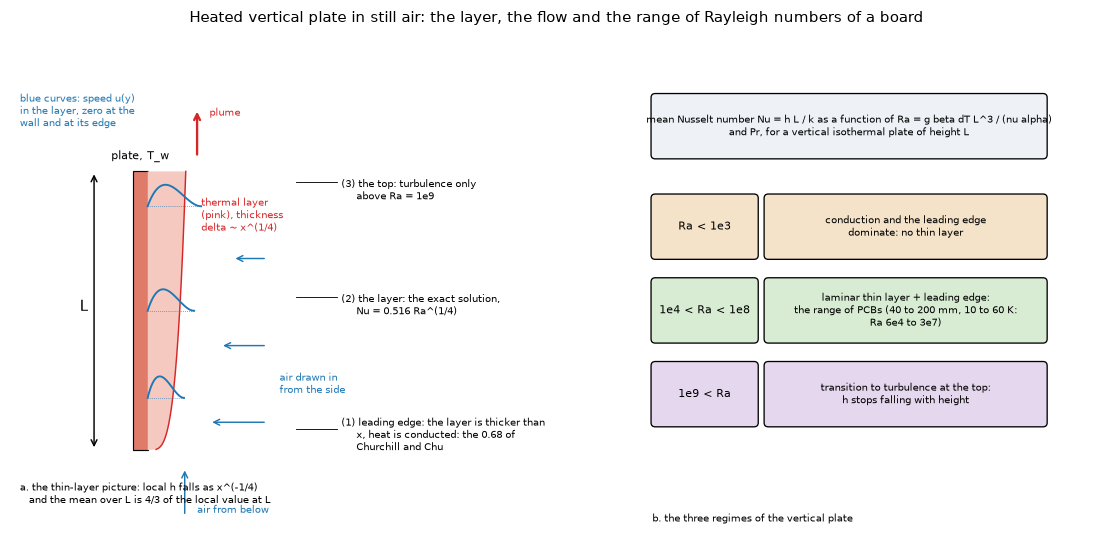
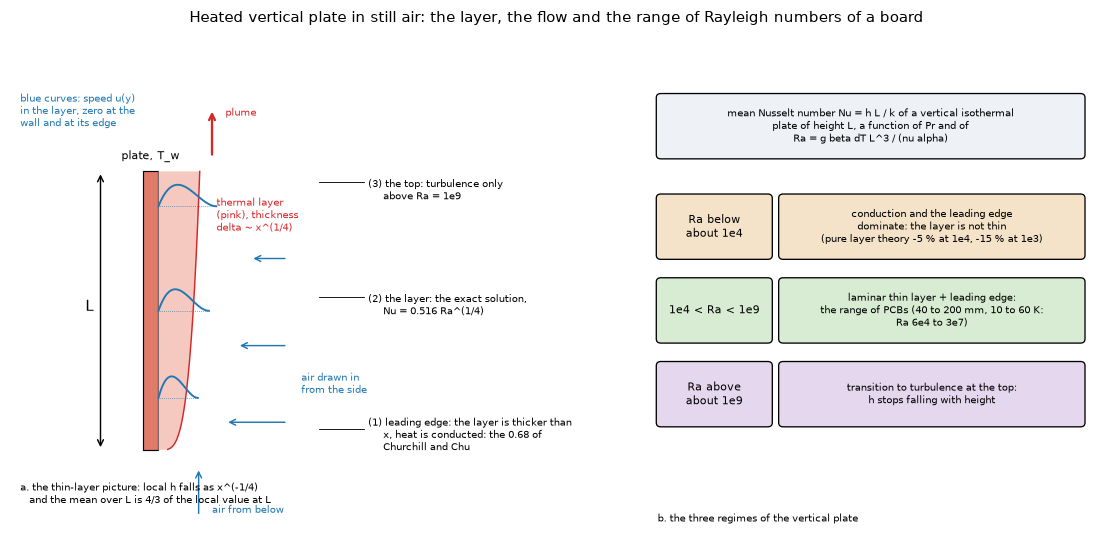
Review research/plate-h-level: 2D uncertainty, fin-channel offset
The finer 2D grid moves Nu by 0.01 to 0.11 %, so the 0.96 balance at
Ra 1e7 is the far-boundary flux, not a 3 to 4 % error of Nu. The -0.1 %
of fin-channel is taken apart in study_finned_block.py (7 % offset to
the laminar form, not 14 %). Inverted percentages corrected, the 0.68
described as a fitted constant (the 2D plate gives 0.35 to 0.54),
Figures 1 and 2 redrawn, review chapter and registers updated.

Claude-Session: https://claude.ai/code/session_01NsfnySABtTnfYfYFzLoyJj

diff --git a/research/plate-h-level/scripts/study_plate2d.py b/research/plate-h-level/scripts/study_plate2d.py
@@ -8,7 +8,9 @@
          the plate), a coarser grid (60 x 50) and a larger domain (6 L wide, 3 L below, 6 L above), prints the mean Nusselt number, the number of pseudo-time steps, the energy
          balance (heat out of the domain / heat out of the plate) and the ratios to each level. Results go to out/plate2d.json. It takes some 20 to 40 minutes: run it in the background.
 
-Usage: .venv/bin/python research/plate-h-level/scripts/study_plate2d.py [quick]     ("quick": Ra 1e4 and 1e5, the coarse grid only)
+Usage: .venv/bin/python research/plate-h-level/scripts/study_plate2d.py [quick|review]     ("quick": Ra 1e4 and 1e5, the coarse grid only; "review": the checks added by the
+       review, the base grid at Ra 1e4 to 1e7 marched on for as many steps again after the convergence flag, and a finer grid (135 x 120, first cell 6e-4) at 1e5 to 1e7,
+       with the local number against the similarity solution; about 30 minutes, results in out/plate2d_review.json)
 """
 
 import json
@@ -26,6 +28,7 @@ OUT = os.path.join(os.path.dirname(HERE), "out")
 PR = 0.71
 COARSE = dict(nx=60, ny_plate=50, ny_below=20, ny_above=30)
 BASE = dict(nx=90, ny_plate=80, ny_below=30, ny_above=45, dx0=1e-3, dy_end=1.5e-3)
+FINE = dict(nx=135, ny_plate=120, ny_below=45, ny_above=68, dx0=6e-4, dy_end=1e-3)
 WIDE = dict(nx=90, ny_plate=80, ny_below=30, ny_above=45, dx0=1e-3, dy_end=1.5e-3, width=6.0, below=3.0, above=6.0)
 
 
@@ -49,12 +52,48 @@ def one(ra, cfg, name):
     return out
 
 
+def one_review(ra, cfg, name):
+    """!
+    @brief The review's check of one configuration: run to the convergence flag, then march as many steps again (at least 20000) and report the drift of Nu and of the
+           energy balance, and the local Nusselt number at y/L 0.25, 0.5, 0.75 over the similarity value 0.3868 Ra^(1/4) (y/L)^(-1/4).
+    @param ra Rayleigh number.
+    @param cfg Keyword arguments of Plate2D.
+    @param name Label of the configuration.
+    @return dict with the results.
+    """
+    import numpy as np
+    t = time.time()
+    m = p2.Plate2D(ra, PR, **cfg)
+    dt = min(3.0 * m.x[1] ** 2, 0.35 * min(m.x[1], m.y[m.j0 + 1] - m.y[m.j0]) / (0.3 * (PR * ra) ** 0.5))
+    r = m.run(dt=dt, max_steps=600000, check=5000, tol=2e-5)
+    nu1, bal1 = r["nu"], m.energy_balance()
+    for _ in range(max(r["steps"], 20000)):
+        m.step()
+    nu2, bal2 = m.nusselt_mean(), m.energy_balance()
+    y, nl = m.nusselt_local()
+    loc = {yy: float(np.interp(yy, y, nl) / (0.3868 * ra ** 0.25 * yy ** -0.25)) for yy in (0.25, 0.5, 0.75)}
+    out = {"ra": ra, "config": name, "nu": nu1, "balance": bal1, "nu_after": nu2, "balance_after": bal2, "drift": nu2 / nu1 - 1.0, "local_over_similarity": loc,
+           "seconds": time.time() - t}
+    print(f"Ra {ra:.0e} {name:6s} Nu {nu1:.4f} balance {bal1:.3f} | marched on: Nu {nu2:.4f} (drift {100 * out['drift']:+.3f} %) balance {bal2:.3f} | local/similarity "
+          + " ".join(f"{k}: {v:.4f}" for k, v in loc.items()) + f"  ({out['seconds']:.0f} s)", flush=True)
+    return out
+
+
 def main():
     """!
     @brief Run the cases and write out/plate2d.json.
     @return None.
     """
     quick = len(sys.argv) > 1 and sys.argv[1] == "quick"
+    if len(sys.argv) > 1 and sys.argv[1] == "review":
+        import multiprocessing as mp
+        cases = [(1e4, BASE, "base"), (1e5, BASE, "base"), (1e6, BASE, "base"), (1e7, BASE, "base"), (1e5, FINE, "fine"), (1e6, FINE, "fine"), (1e7, FINE, "fine")]
+        with mp.Pool(4) as pool:
+            rows = pool.starmap(one_review, cases)
+        os.makedirs(OUT, exist_ok=True)
+        with open(os.path.join(OUT, "plate2d_review.json"), "w") as f:
+            json.dump(rows, f, indent=1)
+        return
     rows = []
     cases = [(1e4, "coarse", COARSE), (1e5, "coarse", COARSE)] if quick else [
         (1e4, "coarse", COARSE), (1e4, "base", BASE), (1e4, "wide", WIDE),

diff --git a/research/plate-h-level/scripts/study_finned_block.py b/research/plate-h-level/scripts/study_finned_block.py
@@ -14,7 +14,7 @@
          * "channel 0.59": the composite of Bar-Cohen and Rohsenow as written in the Waterloo review (plate limit 0.59);
          * "channel exact": the same composite with the plate limit replaced by the exact boundary-layer coefficient 0.5157 (the fully developed limit 24 is unchanged).
 
-         Results go to out/finned_block.json.
+         Results go to out/finned_block.json; the review added the decomposition of the -0.1 % of `fin-channel` at 6.5 mm (out/fin_channel_decomposition.json).
 
 Usage: .venv/bin/python research/plate-h-level/scripts/study_finned_block.py   (about 1 minute)
 """
@@ -84,6 +84,29 @@ def row(gap_mm, length=0.040, power=3.0):
     return out
 
 
+def fin_channel_decomposition(gap_mm=6.5, length=0.040, power=3.0):
+    """!
+    @brief The -0.1 % of `research/fin-channel` at a gap taken apart (added by the review): board faces at the laminar form, as in `fin-channel`, and on the finned face
+           (a) the laminar form (the baseline), (b) the plate 0.59 Ra_b^(1/4) with no channel, (c) the composite with its 0.59 (the run of `fin-channel`), (d) the `phi` form on
+           the laminar coefficient (the channel effect alone).
+    @param gap_mm Gap between the fins in mm.
+    @param length Channel length in m.
+    @param power Part power in W.
+    @return dict with the four rises in K.
+    """
+    p = case(15.0, 1.5, gap_mm + 1.5, power)
+    base = solve_uniform(p, length, "laminar")
+    out = {"gap_mm": gap_mm, "laminar": base["rise"]}
+    for key, fun in (("plate_059_fins", lambda ra: 0.59 * ra ** 0.25), ("channel_059_fins", ch.nu_bcr)):
+        p = case(15.0, 1.5, gap_mm + 1.5, power)
+        p.board.h_top = p.board.h_bottom = base["h"]
+        out[key] = pp.solve_channel(p, length, "fvm", 1.0, nu_fun=fun)["rise"]
+    p = case(15.0, 1.5, gap_mm + 1.5, power)
+    p.board.h_top = p.board.h_bottom = base["h"]
+    out["phi_laminar"] = pp.solve_phi(p, length, 1.0)["rise"]
+    return out
+
+
 def main():
     """!
     @brief Run the gaps, print the table and write out/finned_block.json.
@@ -100,9 +123,18 @@ def main():
     for r in rows:
         base = r["uniform_laminar"]["rise"]
         print(f"gap {r['gap_mm']:.1f}: " + "  ".join(f"{k}: {100 * (r[k]['rise'] / base - 1):+.1f}" for k in ("uniform_general", "uniform_bl", "uniform_mcadams", "channel_059", "channel_exact")))
+    # The configuration of research/fin-channel (board faces at the laminar form) taken apart at 6.5 mm
+    d = fin_channel_decomposition()
+    b = d["laminar"]
+    print(f"fin-channel configuration at {d['gap_mm']} mm (board faces laminar): laminar {b:.1f} K; plate 0.59 on the fins {d['plate_059_fins']:.1f} K "
+          f"({100 * (d['plate_059_fins'] / b - 1):+.1f} %); composite 0.59 on the fins {d['channel_059_fins']:.1f} K ({100 * (d['channel_059_fins'] / b - 1):+.1f} %, "
+          f"{100 * (d['channel_059_fins'] / d['plate_059_fins'] - 1):+.1f} % from the plate 0.59); phi form on the laminar coefficient {d['phi_laminar']:.1f} K "
+          f"({100 * (d['phi_laminar'] / b - 1):+.1f} %)")
     os.makedirs(OUT, exist_ok=True)
     with open(os.path.join(OUT, "finned_block.json"), "w") as f:
         json.dump(rows, f, indent=1)
+    with open(os.path.join(OUT, "fin_channel_decomposition.json"), "w") as f:
+        json.dump(d, f, indent=1)
 
 
 if __name__ == "__main__":

diff --git a/research/plate-h-level/scripts/make_diagrams.py b/research/plate-h-level/scripts/make_diagrams.py
@@ -67,10 +67,10 @@ def boundary_layer():
     ax = axs[1]
     ax.set_xlim(0, 10)
     ax.set_ylim(-0.3, 10.6)
-    dk.box(ax, 0.3, 8.6, 9.4, 1.5, "mean Nusselt number Nu = h L / k as a function of Ra = g beta dT L^3 / (nu alpha)\nand Pr, for a vertical isothermal plate of height L", color="#eef2f7", size=7.2)
-    rows = [("Ra < 1e3", "conduction and the leading edge\ndominate: no thin layer", "#f4e3c9"),
-            ("1e4 < Ra < 1e8", "laminar thin layer + leading edge:\nthe range of PCBs (40 to 200 mm, 10 to 60 K:\nRa 6e4 to 3e7)", "#d7ecd2"),
-            ("1e9 < Ra", "transition to turbulence at the top:\nh stops falling with height", "#e5d7ee")]
+    dk.box(ax, 0.3, 8.6, 9.4, 1.5, "mean Nusselt number Nu = h L / k of a vertical isothermal\nplate of height L, a function of Pr and of\nRa = g beta dT L^3 / (nu alpha)", color="#eef2f7", size=7.2)
+    rows = [("Ra below\nabout 1e4", "conduction and the leading edge\ndominate: the layer is not thin\n(pure layer theory -5 % at 1e4, -15 % at 1e3)", "#f4e3c9"),
+            ("1e4 < Ra < 1e9", "laminar thin layer + leading edge:\nthe range of PCBs (40 to 200 mm, 10 to 60 K:\nRa 6e4 to 3e7)", "#d7ecd2"),
+            ("Ra above\nabout 1e9", "transition to turbulence at the top:\nh stops falling with height", "#e5d7ee")]
     y = 6.2
     for lab, txt, col in rows:
         dk.box(ax, 0.3, y, 2.5, 1.5, lab, color=col, size=7.5)
@@ -99,12 +99,12 @@ def where_levels_come_from():
     dk.arrow(ax, 10.2, 5.4, 2.0, 4.6, label="")
     dk.arrow(ax, 3.8, 3.95, 4.4, 3.95)
     dk.arrow(ax, 8.0, 3.95, 8.6, 3.95, label="")
-    ax.text(8.0, 4.0, "blend with turbulent", fontsize=6, ha="center", va="bottom")
+    ax.text(8.3, 3.15, "(blends in the turbulent rise)", fontsize=6, ha="center", va="top")
     dk.box(ax, 0.2, 1.1, 3.6, 1.3, "Squire integral method\n0.508 [Pr/(0.952+Pr)]^(1/4)\n6 % above the exact value", color="#f4e3c9", size=7)
     dk.box(ax, 4.4, 1.1, 3.6, 1.3, "0.59 Ra^(1/4) (McAdams, empirical,\n1e4 < Ra < 1e9)", color="#f4e3c9", size=7)
-    dk.box(ax, 8.6, 1.1, 3.2, 1.3, "plate limit of the composite of\nBar-Cohen and Rohsenow:\nNu_b = [(24/Ra_b)^2 + (1/(0.59 Ra_b^(1/4)))^2]^(-1/2)", color="#f4e3c9", size=6.6)
+    dk.box(ax, 8.6, 1.1, 3.2, 1.3, "plate limit of the composite of\nBar-Cohen and Rohsenow: Nu_b =\n[(24/Ra_b)^2 + (0.59 Ra_b^(1/4))^-2]^(-1/2)", color="#f4e3c9", size=6.6)
     dk.arrow(ax, 8.0, 1.75, 8.6, 1.75)
-    ax.text(0.2, 0.55, "pink: approximation or empirical level; blue: the exact result; green: the levels of the program. 0.59 is 14 % above the exact 0.5157; it is an empirical constant (the original paper of the composite was not obtained).", fontsize=6.5)
+    ax.text(0.2, 0.55, "tan: approximation or empirical level; blue: the exact result; green: the levels of the program. 0.59 is 14 % above the exact 0.5157; it is an empirical constant (the original paper of the composite was not obtained).", fontsize=6.5)
     dk.save(fig, OUT / "fig_02_where_the_levels_come_from.png", "Where each coefficient of the vertical plate comes from")
 
 

diff --git a/research/plate-h-level/README.md b/research/plate-h-level/README.md
@@ -2,7 +2,7 @@
 
 The question (from the review of `research/fin-channel`, README 10 and `INTEGRATION.md` 6, item 5): which level of the coefficient of an isothermal vertical plate should the program use, and by how much does the choice matter? The program uses Churchill and Chu (`pcbthermal/convection.py`, `Board.natural_form` `general` or `laminar`); the composite of Bar-Cohen and Rohsenow has a plate limit of `0.59 Ra^(1/4)`; laminar boundary-layer theory gives about `0.516 Ra^(1/4)`. The program is not touched: everything below runs on copies in memory (`lib/levels.py`).
 
-**Summary.** (1) The exact laminar boundary-layer solution (own solver, Ostrach's Table I reproduced to 0.02 %) gives `Nu = 0.5157 Ra^(1/4)` at Pr 0.71; the `0.515` quoted is the Churchill-Usagi fit (0.5142), `0.508` is Squire's integral-method constant, and `0.59` is 14.4 % above the exact value, empirical, not a boundary-layer result. (2) The laminar form of Churchill and Chu is the exact coefficient plus a leading-edge term of 0.68: within 0.3 % of "exact + 0.68" over `Ra` 1e3 to 1e9. (3) A full 2D numerical plate (energy balance 0.96 to 1.01) puts the mean Nusselt number of a finite plate 2.2 / 1.8 / 1.3 / 0.8 % below the laminar form at `Ra` 1e4 / 1e5 / 1e6 / 1e7, 4.8 % above the all-range form at 1e4 and 1e5 and 6 % below it at 1e7, and 4 to 12 % below `0.59 Ra^(1/4)`; the published air data (three sets, plot values) scatter by +-15 % and cannot separate the levels. (4) The choice moves the rise of a vertical board by 2 % at most between the two forms of Churchill and Chu (40 mm boards; 0.4 % from 100 mm), by 2 to 4 % for `0.59` (7.5 % convection only), and the rise of the finned block of `fin-channel` by 2 to 4 %, as much as the channel effect at 5.5 to 6.5 mm. (5) Recommendation in `INTEGRATION.md`: the two options are the all-range form and the laminar boundary-layer form of Churchill and Chu; `0.59` is not offered.
+**Summary.** (1) The exact laminar boundary-layer solution (own solver, Ostrach's Table I reproduced to 0.02 %) gives `Nu = 0.5157 Ra^(1/4)` at Pr 0.71; the `0.515` quoted is the Churchill-Usagi fit (0.5142), `0.508` is Squire's integral-method constant, and `0.59` is 14.4 % above the exact value, empirical, not a boundary-layer result. (2) The laminar form of Churchill and Chu is the exact coefficient plus a leading-edge term of 0.68: within 0.3 % of "exact + 0.68" over `Ra` 1e3 to 1e9. (3) A full 2D numerical plate (grid-converged to about 0.2 %, checked by the review on a finer grid) puts the mean Nusselt number of a finite plate 2.2 / 1.8 / 1.3 / 0.8 % below the laminar form at `Ra` 1e4 / 1e5 / 1e6 / 1e7, 4.8 % above the all-range form at 1e4 and 1e5 and 6 % below it at 1e7, and 4 to 12 % below `0.59 Ra^(1/4)` (that is, 0.59 is 4 to 13 % above it); the published air data (three sets, plot values) scatter by +-15 % and cannot separate the levels. (4) The choice moves the rise of a vertical board by 2 % at most between the two forms of Churchill and Chu (40 mm boards; 0.4 % from 100 mm), by 2 to 4 % for `0.59` (7.5 % convection only), and the rise of the finned block of `fin-channel` by 2 to 4 %, as much as the channel effect at 5.5 to 6.5 mm. (5) Recommendation in `INTEGRATION.md`: the two options are the all-range form and the laminar boundary-layer form of Churchill and Chu; `0.59` is not offered.
 
 ## 1. The situation
 
@@ -93,7 +93,7 @@ Correction to what was said before: 0.59 is **not** "the Raithby-Hollands / Chur
 
 * The laminar form of Churchill and Chu **is** the exact boundary layer plus a leading-edge term: its `Ra^(1/4)` coefficient is within 0.28 % of the exact one and the 0.68 is added (`exact BL + 0.68` is within 0.3 % of it at every `Ra` above 1e3). The level "exact" and the laminar form of Churchill and Chu are therefore one and the same level to 0.3 %.
 * Pure boundary-layer theory (no 0.68) fails below `Ra` 1e5 (-5 % at 1e4, -15 % at 1e3), because the layer is not thin compared with the plate.
-* The `0.59` is 1 to 14 % above the laminar form over `1e4 <= Ra <= 1e8` (1.013 at 1e4, 1.068 at 1e5, 1.101 at 1e6, 1.121 at 1e7, 1.132 at 1e8), and the gap grows with `Ra` to 14.4 % at infinity. Where the program's general and laminar forms agree: `Ra` = 135 and 2.2e6; above 2.2e6 the general form includes the turbulent rise that a laminar layer does not have (it is +7.6 % above the exact boundary layer at 1e7, +18 % at 1e8): below 1e9 the laminar form is the one for a laminar layer, as the authors of the correlation themselves say (the program's docstring: the laminar form is "meant for Ra < 1e9").
+* The `0.59` is 1 to 14 % above the laminar form over `1e4 <= Ra <= 1e8` (1.013 at 1e4, 1.068 at 1e5, 1.101 at 1e6, 1.121 at 1e7, 1.132 at 1e8), and the gap grows with `Ra` to 14.7 % at infinity (0.59 / 0.5142; it is 14.4 % above the exact coefficient 0.5157). Where the program's general and laminar forms agree: `Ra` = 135 and 2.2e6; above 2.2e6 the general form includes the turbulent rise that a laminar layer does not have (it is +7.6 % above the exact boundary layer at 1e7, +18 % at 1e8): below 1e9 the laminar form is the one for a laminar layer, as the authors of the correlation themselves say (the program's docstring: the laminar form is "meant for Ra < 1e9").
 
 ![the coefficient against the height of the face](figures/fig_06_coefficient_against_height.png)
 
@@ -145,8 +145,8 @@ Because the measurements cannot separate the levels, the finite plate was solved
 
 *Figure 9 (`figures/fig_09_local_nusselt_number.png`): the local `h L / k` of the numerical plate at `Ra` 1e5 against the similarity solution `0.3868 Ra^(1/4) (y/L)^(-1/4)`: they coincide from `y/L` 0.1 to 0.8; the numerical solution rises at the two ends (the leading edge, where the layer is thicker than the distance, and the top edge, where the flow turns).*
 
-* **Checks of the solver.** The local coefficient reproduces the exact similarity solution in the middle of the plate (Figure 9) without any input from it; the energy balance is 0.98 to 1.01 up to `Ra` 1e6 and 0.96 to 0.97 at 1e7 and 3e7; the grid and the domain change `Nu` by 0.3 % (coarse to base) and by 0.2 to 0.3 % (base to the domain twice as wide, three times as tall) at 1e4 and 1e5. At `Ra` 1e7 and 3e7 the balance says the numbers are good to 3 to 4 %, which is not enough to place a level to better than that. There is no published numerical case of a finite thin plate to compare with in what was read (Ostrach's and Jaffer's are the boundary layer and measurements), so **this solver is validated against the similarity solution (local) and against its own energy balance and grids, not against a published finite-plate value**.
-* **Result.** The numerical plate lies **2.2 % below the laminar form of Churchill and Chu at `Ra` 1e4, 1.8 % at 1e5, 1.3 % at 1e6, 1.1 % at 3e6, 0.8 % at 1e7 and 0.6 % at 3e7** (the last two inside the uncertainty of the balance), **4.8 % above the all-range form at 1e4 and 1e5** (1.0 % above at 1e6, 2 % below at 3e6, **6 % below at 1e7 and 10 % below at 3e7**), **8 to 12 % below `0.59 Ra^(1/4)`** from 1e5 up (3.5 % at 1e4), and 10 % above the pure boundary layer at 1e4 (5 % at 1e5, 1 to 2.5 % from 1e6). So over the whole range of the boards the laminar form of Churchill and Chu, that is, the exact boundary-layer coefficient plus the leading-edge term, is the closest level, a little high (0.6 to 2.2 %); the all-range form is low at the small boards and high at the large ones; `0.59` is high by 4 to 12 %.
+* **Checks of the solver.** The local coefficient reproduces the exact similarity solution in the middle of the plate (Figure 9) without any input from it; the energy balance is 0.98 to 1.01 up to `Ra` 1e6 and 0.96 to 0.97 at 1e7 and 3e7; the grid and the domain change `Nu` by 0.3 % (coarse to base) and by 0.2 to 0.3 % (base to the domain twice as wide, three times as tall) at 1e4 and 1e5. The first version read the balance of 0.96 to 0.97 at 1e7 and 3e7 as an uncertainty of 3 to 4 % of `Nu`; the review's checks (`study_plate2d.py review`) show that it is the error of the flux summed over the far boundaries, not of the wall: on a finer grid (135 x 120, first cell 6e-4 L) the balance rises to 0.987 at 1e7 (0.998 at 1e6, 1.005 at 1e5) while `Nu` changes by -0.01 % at 1e7 (29.356 against 29.358), +0.07 % at 1e6 (16.732) and +0.11 % at 1e5 (9.661); marching on for as many steps again after the convergence flag moves `Nu` by 0.03 % at most; and the local number in the middle of the plate (`y/L` 0.25 to 0.75) is within 0.3 % of the similarity solution from 1e5 to 1e7 (1.2 to 1.6 % above it at 1e4, where the layer is not thin). So the mean `Nu` is good to about 0.2 % at 1e5 to 1e7 (3e7 was not re-checked on the finer grid). There is no published numerical case of a finite thin plate to compare with in what was read (Ostrach's and Jaffer's are the boundary layer and measurements), so **this solver is validated against the similarity solution (local) and against its own energy balance and grids, not against a published finite-plate value**.
+* **Result.** The numerical plate lies **2.2 % below the laminar form of Churchill and Chu at `Ra` 1e4, 1.8 % at 1e5, 1.3 % at 1e6, 1.1 % at 3e6, 0.8 % at 1e7 and 0.6 % at 3e7**, **4.8 % above the all-range form at 1e4 and 1e5** (1.0 % above at 1e6, 2 % below at 3e6, **6 % below at 1e7 and 10 % below at 3e7**), **8 to 12 % below `0.59 Ra^(1/4)`** from 1e5 up (3.5 % at 1e4), and 10 % above the pure boundary layer at 1e4 (5 % at 1e5, 1 to 2.5 % from 1e6). So over the whole range of the boards the laminar form of Churchill and Chu, that is, the exact boundary-layer coefficient plus the leading-edge term, is the closest level, a little high (0.6 to 2.2 %); the all-range form is low at the small boards and high at the large ones; `0.59` is high by 4 to 13 %. The numerical plate exceeds the pure boundary layer by an additive 0.54 / 0.48 / 0.41 / 0.38 / 0.36 / 0.35 at `Ra` 1e4 / 1e5 / 1e6 / 3e6 / 1e7 / 3e7 (the effect of the two ends of the plate): the 0.68 of Churchill and Chu is a constant fitted to measurements, larger than what the 2D plate gives, and that is why the laminar form is a little high; calling it "the leading-edge term" is this study's reading, not a statement of the source.
 * **Limits.** 2D (an infinitely wide plate, no side entrainment), Boussinesq, constant properties at the film temperature, a thin plate with the same temperature on both faces and symmetric flow (a real board has components, an edge, a neighbour); steady laminar (the 2D steady solution exists and converged at all `Ra` run; physical transition is far above); `Pr` 0.71 only. A real board loses 3D side entrainment to the edges: a narrow board has a higher mean coefficient than the 2D plate (not studied).
 
 ## 7. How much the choice moves the rise of a board
@@ -193,7 +193,7 @@ Because the measurements cannot separate the levels, the finite plate was solved
 
 * **The level moves the finned block by 2.2 to 3.6 %** (uniform general +2.2 to +2.6 %, exact boundary layer +2.3 to +2.7 %, 0.59 -2.5 to -3.6 %, all against the laminar form that `fin-channel` used as its baseline; the general form is hotter than the laminar one because at `Ra` 6e4 to 2e5 it is the lower of the two). A level moves the rise of the block as much as the channel effect at a 5.5 to 6.5 mm gap.
 * **The channel effect proper**, each composite against the uniform run of its own plate limit: with 0.59, +24 / +11 / +4.3 / +1.7 % at 3.5 / 4.5 / 5.5 / 6.5 mm and 0.0 % from 14.5 mm (the wide-gap limit of the composite is the uniform 0.59 run: 82.1 K at 20.5 mm in both); with the exact plate limit +22 / +8.8 / +3.3 / +1.3 % and 0.0 % from 14.5 mm (87.5 K in both). These are the `phi` numbers of `fin-channel` (+27 / +11.8 / +4.7 / +1.9 %, computed there against the Churchill and Chu laminar baseline and the `phi` form) to within 0.2 to 5 points: the channel effect does not depend on the level to the precision of the study.
-* So the finding of `fin-channel` that the composite "cancels" against the plate at 6.5 mm is explained: the 0.59 plate limit is 14 % above the exact boundary layer, which is worth 5 % of the rise of this block (71.4 K for the uniform 0.59 against 75.5 K for the exact boundary layer at 6.5 mm); `channel 0.59` (72.7 K at 6.5 mm) is lower than the laminar plate (73.7) by the 0.59 offset and higher than its own wide-gap limit (71.4 K) by the channel effect. **A channel correction should multiply the coefficient of whatever level the program uses (the `phi` form of `fin-channel`), not replace it by the composite with its 0.59.**
+* So the finding of `fin-channel` that the composite "cancels" against the plate at 6.5 mm is explained, and the review measured the two parts directly (last line of `study_finned_block.py`) in the configuration of `fin-channel` (board faces at the laminar form, the composite on the fins and the free base): the 0.59 plate alone on the finned face, with no channel, lowers the rise by 1.8 % (72.3 K against 73.7 K: at the `Ra` of these 40 mm channels, about 1e5, 0.59 is 7 % above the laminar form, not 14 %, because the laminar form carries the 0.68), and the channel effect raises it by 1.7 % from there (73.6 K, the -0.1 % of `fin-channel`); the `phi` form on the laminar coefficient gives +1.9 % (75.1 K). In this study's own runs, where the board faces also carry the level of the composite, `channel 0.59` (72.7 K at 6.5 mm) is lower than the laminar plate (73.7) by the 0.59 offset on every face and higher than its own wide-gap limit (71.4 K) by the channel effect; against the exact boundary layer, which has no 0.68, the 0.59 is 14 % higher and worth 5 % of the rise (71.4 K against 75.5 K). (The first version explained the -0.1 % with the 14 % offset to the exact boundary layer; the baseline of `fin-channel` is the laminar form, against which the offset is 7 %.) **A channel correction should multiply the coefficient of whatever level the program uses (the `phi` form of `fin-channel`), not replace it by the composite with its 0.59.**
 
 ## 9. What was read and what was not verified
 
@@ -204,3 +204,11 @@ Because the measurements cannot separate the levels, the finite plate was solved
 * **Not reproduced**: any published finite-plate numerical value (none was found), any measurement table (only plot values), the behaviour at `Ra` below 1e4 or above 3e7 in 2D, `Pr` other than 0.71.
 * **Mine, not a source**: the finding that the laminar form is the exact boundary layer plus the leading edge (shown by the numbers of section 4), the 2D solver and its results (section 6), the recommendation of `INTEGRATION.md`.
 * **Tests**: `research/plate-h-level/tests/test_plate_h_level.py` (Ostrach's table and profile rows, shooting against collocation, the exact coefficient and its fits, the levels against the program and the patch restored, the 2D solver's energy balance, its position between the levels, the fall of the local number up the plate).
+
+## 10. Review
+
+* **Status**: reviewed by the independent reviewer on the branch, program at `5979a4f`; every study re-run (`study_similarity.py`, `study_air_data.py`, `study_board_effect.py`, `study_finned_block.py`, both figure scripts; `study_plate2d.py` re-run at `Ra` 1e4, 1e5, 1e6 and 1e7 on the base grid, which reproduced 5.694 / 9.651 / 16.720 / 29.358 to the printed digit), the folder tests, `tests/test_docs.py`, `tests/test_license_header.py`, `research/theory/tests` and `research/check_figures.py` pass; the data figures are bit-identical. Ready for the maintainer's decisions (`INTEGRATION.md` 6).
+* **Independent checks**: a second similarity solver written by the reviewer (Newton on a finite-difference grid with Richardson extrapolation, no shooting and no `solve_bvp`) gives `-H'(0)` 0.50463 / 0.56715 / 0.71647 at Pr 0.72 / 1 / 2 (Ostrach 0.5046 / 0.5671 / 0.7165) and, at Pr 0.71, the local 0.3868, the mean 0.5157 and the ratios 0.5142 (-0.28 %), Squire +6.2 %, 0.5756 +11.6 %, 0.59 +14.4 %, 0.62 +20.2 %; the program's two forms evaluated through `convection.h_natural_vertical` at `Ra` 1e3 to 1e9 (10 and 30 K) are within 0.25 to 0.35 % of exact + 0.68 and cross the general form at `Ra` 135 and 2.2e6; the INTEGRATION test values of `h` recomputed; the 2D solver read against its equations (vorticity sign and buoyancy term, Thom's wall formula, boundary rows, the outward fluxes of the balance) and re-checked on a finer grid and by marching on (section 6); the -0.1 % of `fin-channel` taken apart (section 8). The sibling folder `research/fin-channel-sources` (section 6, its own solver and a third finite-difference one) gives the same Table I to 0.02 %, the same 0.75 % at Pr 0.01, 0.5165 and -0.28 % at Pr 0.72; it cites Ostrach's Table I as PDF pages 15 and 16, which are the report pages 77 and 78 quoted here, and reads in Bar-Cohen, Iyengar and Kraus (2003) that the isolated-plate constant is reported between 0.515 and 0.59, which agrees with section 3.2.
+* **Defects found and corrected**: (1) the energy balance of 0.96 to 0.97 at `Ra` 1e7 and 3e7 had been read as a 3 to 4 % uncertainty of `Nu`: it is the far-boundary flux, `Nu` moves by 0.01 % on the finer grid (section 6, `INTEGRATION.md` 1); (2) the explanation of the -0.1 % of `fin-channel` used the 14 % offset to the exact boundary layer, while that study's baseline is the laminar form, 7 % below 0.59 at those `Ra` (section 8, now measured: -1.8 % offset, +1.7 % channel); (3) "0.59 is 4 to 12 % high" and "the all-range form 6 to 10 % high" were the inverse ratios: 4 to 13 % and 6 to 11 %; the gap of 0.59 to the laminar form tends to 14.7 %, not 14.4 %; (4) the 0.68 was presented as "the leading-edge term": the 2D plate gives an additive 0.35 to 0.54, so the 0.68 is a fitted constant and the reason the laminar form is slightly high (section 6, `docs/theory-text.md`); (5) Figures 1 and 2: text overflowing its boxes, regimes with gaps (1e3 to 1e4, 1e8 to 1e9), a legend that called the tan boxes pink.
+* **Limits**: the 2D plate is isothermal, infinitely wide and symmetric, while a board is not isothermal (the program applies the correlation to the mean face temperature) and entrains air at its sides; 3e7 was not re-checked on the finer grid; the air data are plot values of a secondary source; Churchill and Chu (1975), McAdams and Bar-Cohen and Rohsenow were not opened by the author nor by the reviewer, and Ostrach's scans were not re-opened (the table was checked through the second solver).
+* **Text for the project documents**: `docs/` of this folder as corrected here; the recommendation (laminar default for new projects, old files keep the all-range form, no 0.59, the channel correction multiplies the level in use) is supported by the numbers, with the weight of evidence stated in `INTEGRATION.md` 2.

diff --git a/research/plate-h-level/INTEGRATION.md b/research/plate-h-level/INTEGRATION.md
@@ -5,7 +5,7 @@ What would enter the program, the measured impact, what does not change and the 
 ## 1. What the study found, for the decision
 
 * The exact laminar boundary layer of an isothermal vertical plate in air is `Nu = 0.5157 Ra^(1/4)` (own solver; Ostrach's Table I reproduced to 0.02 %) [3]. The `Ra^(1/4)` term of the Churchill and Chu **laminar** form is 0.28 % below it, and its `0.68` is the leading-edge term: the program's `laminar` form already **is** "the exact boundary layer plus the leading edge" [3, 4].
-* A full 2D numerical plate (own solver, grid and domain checked, energy balance 0.96 to 1.01) says the real mean `Nu` is, against the program's two forms [6]:
+* A full 2D numerical plate (own solver, grid and domain checked; the review's finer grid moves `Nu` by 0.01 to 0.11 % at `Ra` 1e5 to 1e7) says the real mean `Nu` is, against the program's two forms [6]:
 
 | Ra | numerical / laminar form | numerical / general form | numerical / 0.59 Ra^(1/4) |
 | --: | --: | --: | --: |
@@ -16,7 +16,7 @@ What would enter the program, the measured impact, what does not change and the 
 | 1e7 | 0.992 | 0.941 | 0.885 |
 | 3e7 | 0.994 | 0.900 | 0.882 |
 
-  (the last two rows are good to 3 to 4 %, from the energy balance). So over the range of the boards (`Ra` 6e4 to 3e7 for 40 to 200 mm at 10 to 60 K) the laminar form is the closest level (high by 0.6 to 2.2 %), the all-range form is 5 % low at the small boards and 6 to 10 % high at the large ones, and `0.59` is 4 to 12 % high.
+  (the first version said the last two rows were good only to 3 to 4 %, from the energy balance; the review's finer grid moves `Nu` by 0.01 % at 1e7 and raises the balance, so the shortfall is in the far-boundary flux, not in `Nu`; 3e7 was not re-checked). So over the range of the boards (`Ra` 6e4 to 3e7 for 40 to 200 mm at 10 to 60 K) the laminar form is the closest level (high by 0.6 to 2.2 %), the all-range form is 5 % low at the small boards and 6 to 11 % high at the large ones, and `0.59` is 4 to 13 % high.
 * The published air measurements (three sets, plot values) scatter by +-15 % and cannot tell the forms apart [5].
 * **The choice matters little for the rise**: at most 2 % between the two forms of Churchill and Chu on a 40 mm board (0.4 % from 100 mm up), 2 to 4 % for `0.59` (7.5 % convection only), 2.2 to 3.6 % on the finned block of `fin-channel` [7, 8]. The radiation, which does not depend on the level, is about half of the total coefficient.
 
@@ -27,11 +27,11 @@ What would enter the program, the measured impact, what does not change and the 
 | Option | Value | Name in the interface | What it is |
 | :-- | :-- | :-- | :-- |
 | 1 | `laminar` | "Boundary layer (Churchill and Chu, laminar)" | the exact laminar boundary-layer coefficient plus the leading-edge term; within 0.6 to 2.2 % of the 2D numerical plate over `Ra` 1e4 to 3e7; right below `Ra` 1e9; the recommended default |
-| 2 | `general` | "All Rayleigh numbers (Churchill and Chu)" | the single formula that joins the laminar and the turbulent regime; 5 % lower `h` than the numerical plate at `Ra` 1e4 to 1e5 (conservative for the rise), 6 to 10 % higher at 1e7 to 3e7; the right one above `Ra` 1e9 |
+| 2 | `general` | "All Rayleigh numbers (Churchill and Chu)" | the single formula that joins the laminar and the turbulent regime; 5 % lower `h` than the numerical plate at `Ra` 1e4 to 1e5 (conservative for the rise), 6 to 11 % higher at 1e7 to 3e7; the right one above `Ra` 1e9 |
 
-`0.59 Ra^(1/4)` and the composite's plate limit are not offered: it is 14 % above the exact boundary layer and 4 to 12 % above the numerical plate, and it is not a boundary-layer result.
+`0.59 Ra^(1/4)` and the composite's plate limit are not offered: it is 14 % above the exact boundary layer and 4 to 13 % above the numerical plate, and it is not a boundary-layer result.
 
-**Default.** Two defensible choices, for the maintainer: (a) **change the default to the laminar form** for new projects (the closest to the numerical plate; changes the rise of a vertical board with computed `h` by -0.1 to -2 % (small boards) and +0.3 % at most for large ones); (b) keep `general` (no change of any number; conservative for boards under 100 mm; 6 to 10 % high in `h` above `Ra` 2e6, that is for 150 mm faces and taller, where it makes the board cooler than the numerical plate). The study recommends (a), with the old files (no key `natural_form` in the JSON) read as `general` so that their results do not change (`model.py` reads `b.get("natural_form", "general")` today and keeps doing so).
+**Default.** Two defensible choices, for the maintainer: (a) **change the default to the laminar form** for new projects (the closest to the numerical plate; changes the rise of a vertical board with computed `h` by -0.1 to -2 % (small boards) and +0.3 % at most for large ones); (b) keep `general` (no change of any number; conservative for boards under 100 mm; 6 to 11 % high in `h` above `Ra` 2e6, that is for 150 mm faces and taller, where it makes the board cooler than the numerical plate). The study recommends (a), with the old files (no key `natural_form` in the JSON) read as `general` so that their results do not change (`model.py` reads `b.get("natural_form", "general")` today and keeps doing so). Note of the review: the program already writes `natural_form` into every saved project, so only files older than the option lack the key; the default of new projects is the `natural_form` of the `new_board` section of `pcbthermal/data/defaults.json` (and of a user's `user_defaults.json`), besides the dataclass default of `Board`. Weight of the evidence: the preference for (a) rests on the 2D numerical plate alone (the air data cannot separate the forms, and their mean is 3.7 % above the laminar form), the gain is at most 2 % of the rise, and (b) errs on the hot side for boards under 100 mm; the 2D plate has no side entrainment, which would raise the real coefficient of a narrow board and so also points towards (a).
 
 **Automatic switch (optional).** Above `Ra` 1e9 the laminar form is -25 % at 1e9 against the all-range form and lacks the turbulent rise; a value `auto` (laminar below `Ra` 1e9, all-range above) would remove the need to choose. Not measured here (no board of the program has `Ra` above 5e7); the program already warns above 1e9 for the laminar form.
 

diff --git a/research/REVIEW.md b/research/REVIEW.md
@@ -17,7 +17,7 @@ What the independent `reviewer` agent has checked in each folder, so that a late
 | `gerber-import/` | reviewed | `a6f822b` | none in the program (no model involved) |
 | `gerber-models/` | reviewed | `a6f822b` | open: zones combined by the maximum per cell (-8.2 % FVM, -19.1 % FDM on abutting strips); two laminate nodes 5.5 to 13.6 % cool on patterned copper (A11); the laminate of a one-layer board in the 3D solid is corrected |
 | `gerber-nets/` | reviewed | not applicable (no electrical code in `pcbthermal/`) | none in the program; limits: return current in the ground net, resistivity, plated outer copper |
-| `plate-h-level/` | written, awaiting the reviewer | `5979a4f` | the 2D plate solver is validated against the similarity solution (local) and its own balance, not against a published finite-plate value; the air data are plot values from a secondary source; Churchill and Chu (1975), Raithby and Hollands, McAdams not obtained; decisions in `INTEGRATION.md` 6 (names and default of the two options, `auto`, the warning at low `Ra`) |
+| `plate-h-level/` | reviewed | `5979a4f` | none in the program; all numbers reproduced (2D plate re-run at Ra 1e4 to 1e7), the similarity coefficient checked by a second solver; corrected in the folder: the 3 to 4 % uncertainty read from the 2D energy balance (the finer grid moves Nu by 0.01 to 0.11 %), the explanation of the -0.1 % of `fin-channel` (7 % offset to the laminar form, measured: -1.8 % offset, +1.7 % channel), inverted percentages (0.59 is 4 to 13 % high, the all-range form 6 to 11 %), the 0.68 is a fitted constant (the 2D plate gives 0.35 to 0.54), Figures 1 and 2; open: decisions in `INTEGRATION.md` 6 (names and default of the two options, `auto`, the warning at low `Ra`) |
 | `fin-channel/` | reviewed | `11b3bc4` | none in the program; all numbers reproduced, the channel solver checked by a second solver (0.3 %); corrected in the folder: the baseline of README 5 and 6 (a 7 % offset between the composite's plate limit and the Churchill and Chu plate had been read as "no channel effect at 6.5 mm" and the `phi` form as conservative; the channel effect is +1.9 % of the rise there), the 3D-solid pitch counted `h_extra` twice (regression test), the `beta` and block-temperature notes, Figure 10; open: decisions in `INTEGRATION.md` 6 (rule at `Ra_b < 90`, the `phi` option, C3a, radiation, the plate level) |
 | `zone-union/` | reviewed | `98bae17` | open (decisions in `INTEGRATION.md` 3 and 4): adopt the per-point union (prototype `fix/zone-union`, 681 passed); limit found, not about zones: the layered models lose 12 to 14 points of the peak on a part over bare laminate (README 8.3); the real-board reference is 5 to 14 % low at 0.25 mm |
 

diff --git a/research/plate-h-level/docs/theory-text.md b/research/plate-h-level/docs/theory-text.md
@@ -1,3 +1,3 @@
 # Text for `docs/theory.md` section 8 (natural convection of a vertical face), to use when adopted
 
-The coefficient of a vertical isothermal plate rests on the similarity solution of the laminar boundary layer: with `eta = (y/x)(Gr_x/4)^(1/4)` the equations `f''' + 3 f f'' - 2 f'^2 + theta = 0`, `theta'' + 3 Pr f theta' = 0` give the local Nusselt number `Nu_x = -theta'(0) (Gr_x/4)^(1/4)` (Ostrach, NACA Report 1111, Table I: `-theta'(0)` = 0.5046 at Pr 0.72, 0.5671 at 1) and, because the local coefficient falls as `x^(-1/4)`, a plate average of 4/3 of the local value at `L`: `Nu = C(Pr) Ra^(1/4)` with `C(0.71) = 0.5157` (exact, own solver). The term `0.670 Ra^(1/4)/[1+(0.492/Pr)^(9/16)]^(4/9)` of the laminar form of Churchill and Chu is this coefficient to 0.3 % (0.5142 at Pr 0.71); the added 0.68 is the leading-edge term (the layer is not thin at the foot of the plate). A 2D numerical solution of a finite thin plate (own solver) lies 2.2 % (`Ra` 1e4) to 0.6 % (3e7) below the laminar form; the all-range form joins the laminar and the turbulent regimes and is 5 % below the numerical plate at 1e4 to 1e5 and 6 to 10 % above it at 1e7 to 3e7; `0.59 Ra^(1/4)` (empirical, textbooks) is 14 % above the exact coefficient and 4 to 12 % above the numerical plate. Sources and status: `research/plate-h-level/README.md` 2 to 6.
+The coefficient of a vertical isothermal plate rests on the similarity solution of the laminar boundary layer: with `eta = (y/x)(Gr_x/4)^(1/4)` the equations `f''' + 3 f f'' - 2 f'^2 + theta = 0`, `theta'' + 3 Pr f theta' = 0` give the local Nusselt number `Nu_x = -theta'(0) (Gr_x/4)^(1/4)` (Ostrach, NACA Report 1111, Table I: `-theta'(0)` = 0.5046 at Pr 0.72, 0.5671 at 1) and, because the local coefficient falls as `x^(-1/4)`, a plate average of 4/3 of the local value at `L`: `Nu = C(Pr) Ra^(1/4)` with `C(0.71) = 0.5157` (exact, own solver). The term `0.670 Ra^(1/4)/[1+(0.492/Pr)^(9/16)]^(4/9)` of the laminar form of Churchill and Chu is this coefficient to 0.3 % (0.5142 at Pr 0.71); the added 0.68 is a constant fitted to the measurements that stands for the ends of a finite plate (the layer is not thin at its foot); the 2D numerical plate gives 0.35 to 0.54 there, which is why the laminar form is slightly high. A 2D numerical solution of a finite thin plate (own solver) lies 2.2 % (`Ra` 1e4) to 0.6 % (3e7) below the laminar form; the all-range form joins the laminar and the turbulent regimes and is 5 % below the numerical plate at 1e4 to 1e5 and 6 to 11 % above it at 1e7 to 3e7; `0.59 Ra^(1/4)` (empirical, textbooks) is 14 % above the exact coefficient and 4 to 13 % above the numerical plate. Sources and status: `research/plate-h-level/README.md` 2 to 6.

diff --git a/research/README.md b/research/README.md
@@ -17,7 +17,7 @@ Studies that are not part of the program, one folder per investigation, named af
 | [`outline/`](outline/README.md) | implemented | Which rectangle for the Lumped and Analytic models on a board with an outline. |
 | [`stackup/`](stackup/README.md) | implemented | The advanced stack-up in the five models, its sensitivity, the typical templates against fabricators. |
 | [`via-fill/`](via-fill/README.md) | implemented | What fills a via barrel and how much it matters. |
-| [`plate-h-level/`](plate-h-level/README.md) | open, awaiting the reviewer | Which natural-convection level for a vertical face: the exact boundary-layer coefficient (Ostrach reproduced), the program's two Churchill and Chu forms and the 0.59 of the composite against a 2D numerical plate and published air data, and how much the choice moves the rise of a board and of the finned block. |
+| [`plate-h-level/`](plate-h-level/README.md) | open, reviewed | Which natural-convection level for a vertical face: the exact boundary-layer coefficient (Ostrach reproduced), the program's two Churchill and Chu forms and the 0.59 of the composite against a 2D numerical plate and published air data, and how much the choice moves the rise of a board and of the finned block. |
 | [`fin-channel/`](fin-channel/README.md) | open, reviewed | The channel effect between close fins of the finned block: Elenbaas and composite correlations read and reproduced, measured fin arrays, the program's block with the channel coefficient, a rule for the warning and a correction. |
 | [`zone-union/`](zone-union/README.md) | open, reviewed | How the zones of one copper layer are combined into the copper of a cell: what the CAD tools mean, which rule is right, the five models against an independent solver, sampling, cost, edge cases. |
 

diff --git a/research/plate-h-level/docs/decisions-log.md b/research/plate-h-level/docs/decisions-log.md
@@ -1,3 +1,3 @@
 # Text for the Decisions Log of `CLAUDE.md` (to use when the maintainer decides)
 
-* **Plate level of the vertical faces** (research `plate-h-level`): the program keeps its two Churchill and Chu forms as the two options of `Board.natural_form`; the laminar form is the exact boundary-layer coefficient (0.5157 at Pr 0.71, Ostrach's Table I reproduced) plus the leading-edge term and is within 0.6 to 2.2 % of an independent 2D numerical plate over `Ra` 1e4 to 3e7, the all-range form is 5 % low at 1e4 to 1e5 and 6 to 10 % high at 1e7 to 3e7, and the 0.59 Ra^(1/4) of the textbooks and of the Bar-Cohen and Rohsenow composite is 4 to 12 % high and is not offered. The choice moves the rise of a vertical board by 2 % at most. The channel correction of `fin-channel` multiplies the level in use. (Fill in the maintainer's decision on the default.)
+* **Plate level of the vertical faces** (research `plate-h-level`): the program keeps its two Churchill and Chu forms as the two options of `Board.natural_form`; the laminar form is the exact boundary-layer coefficient (0.5157 at Pr 0.71, Ostrach's Table I reproduced) plus the leading-edge term and is within 0.6 to 2.2 % of an independent 2D numerical plate over `Ra` 1e4 to 3e7, the all-range form is 5 % low at 1e4 to 1e5 and 6 to 11 % high at 1e7 to 3e7, and the 0.59 Ra^(1/4) of the textbooks and of the Bar-Cohen and Rohsenow composite is 4 to 13 % high and is not offered. The choice moves the rise of a vertical board by 2 % at most. The channel correction of `fin-channel` multiplies the level in use. (Fill in the maintainer's decision on the default.)

diff --git a/research/plate-h-level/docs/research.md b/research/plate-h-level/docs/research.md
@@ -1,3 +1,3 @@
 # Text for `docs/research.md` (open investigation) while the decision is pending
 
-**Plate level of a vertical face** (`research/plate-h-level/`). The program's Churchill and Chu forms against the exact boundary layer (0.5157 Ra^(1/4) at Pr 0.71, Ostrach reproduced), a 2D numerical plate and the published air data: the laminar form is the exact coefficient plus a leading edge and is within 0.6 to 2.2 % of the numerical plate for `Ra` 1e4 to 3e7; the all-range form is 5 % low at 1e4 to 1e5 and 6 to 10 % high at 1e7 to 3e7; 0.59 Ra^(1/4) is 4 to 12 % high. The rise of a vertical board moves by 2 % at most between the two forms. Open: the default (laminar or all-range), an `auto` value, the warning below `Ra` 1e3, a published finite-plate case to validate the 2D solver, 3D edge entrainment of narrow boards.
+**Plate level of a vertical face** (`research/plate-h-level/`). The program's Churchill and Chu forms against the exact boundary layer (0.5157 Ra^(1/4) at Pr 0.71, Ostrach reproduced), a 2D numerical plate and the published air data: the laminar form is the exact coefficient plus a leading edge and is within 0.6 to 2.2 % of the numerical plate for `Ra` 1e4 to 3e7; the all-range form is 5 % low at 1e4 to 1e5 and 6 to 11 % high at 1e7 to 3e7; 0.59 Ra^(1/4) is 4 to 13 % high. The rise of a vertical board moves by 2 % at most between the two forms. Open: the default (laminar or all-range), an `auto` value, the warning below `Ra` 1e3, a published finite-plate case to validate the 2D solver, 3D edge entrainment of narrow boards.
